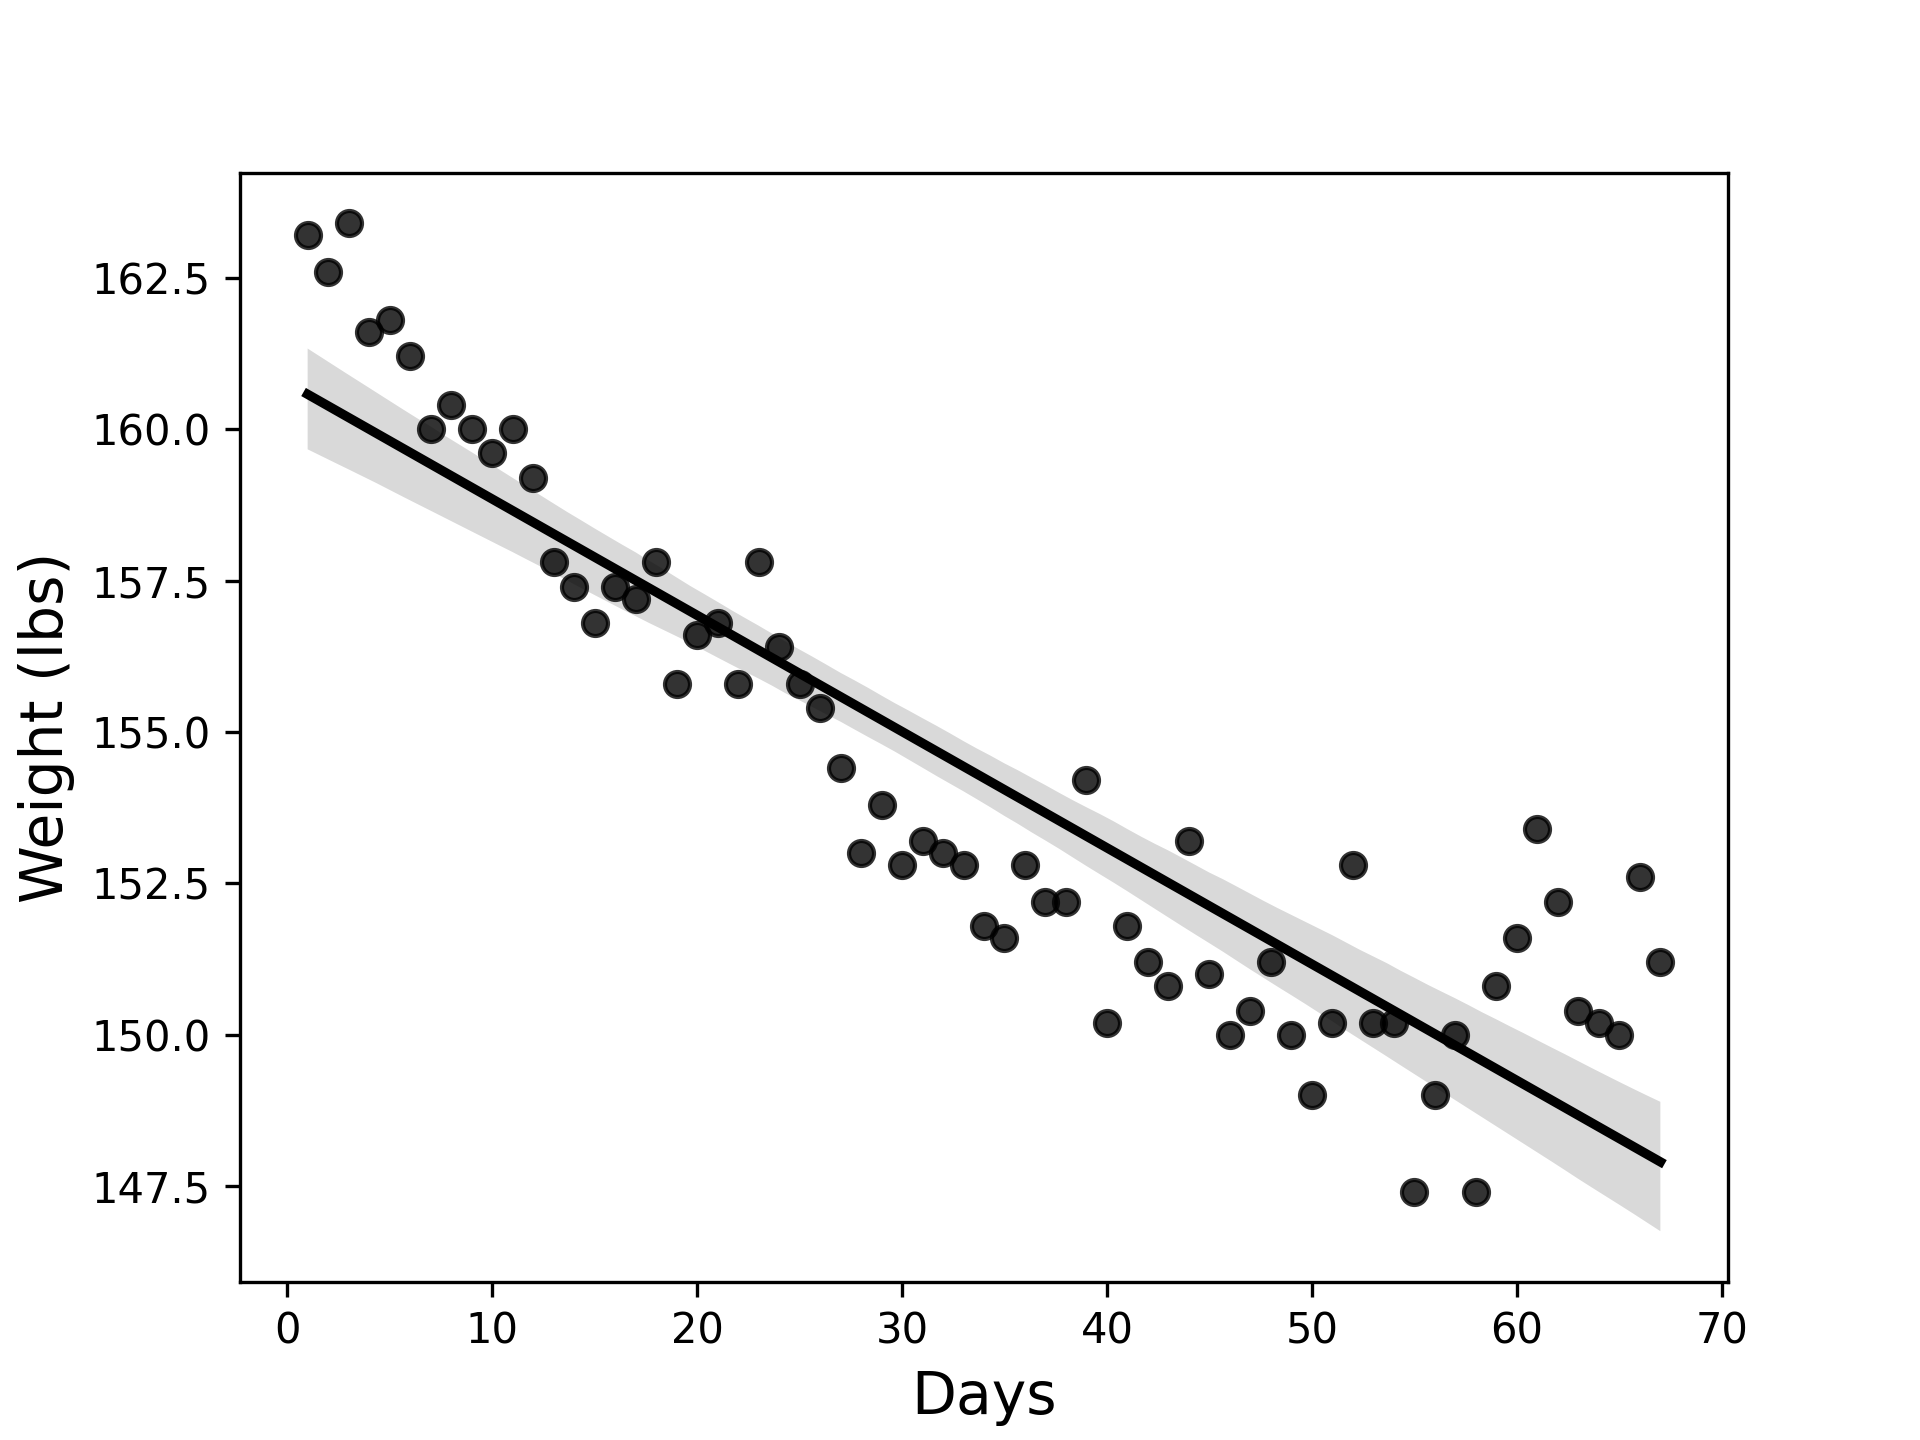
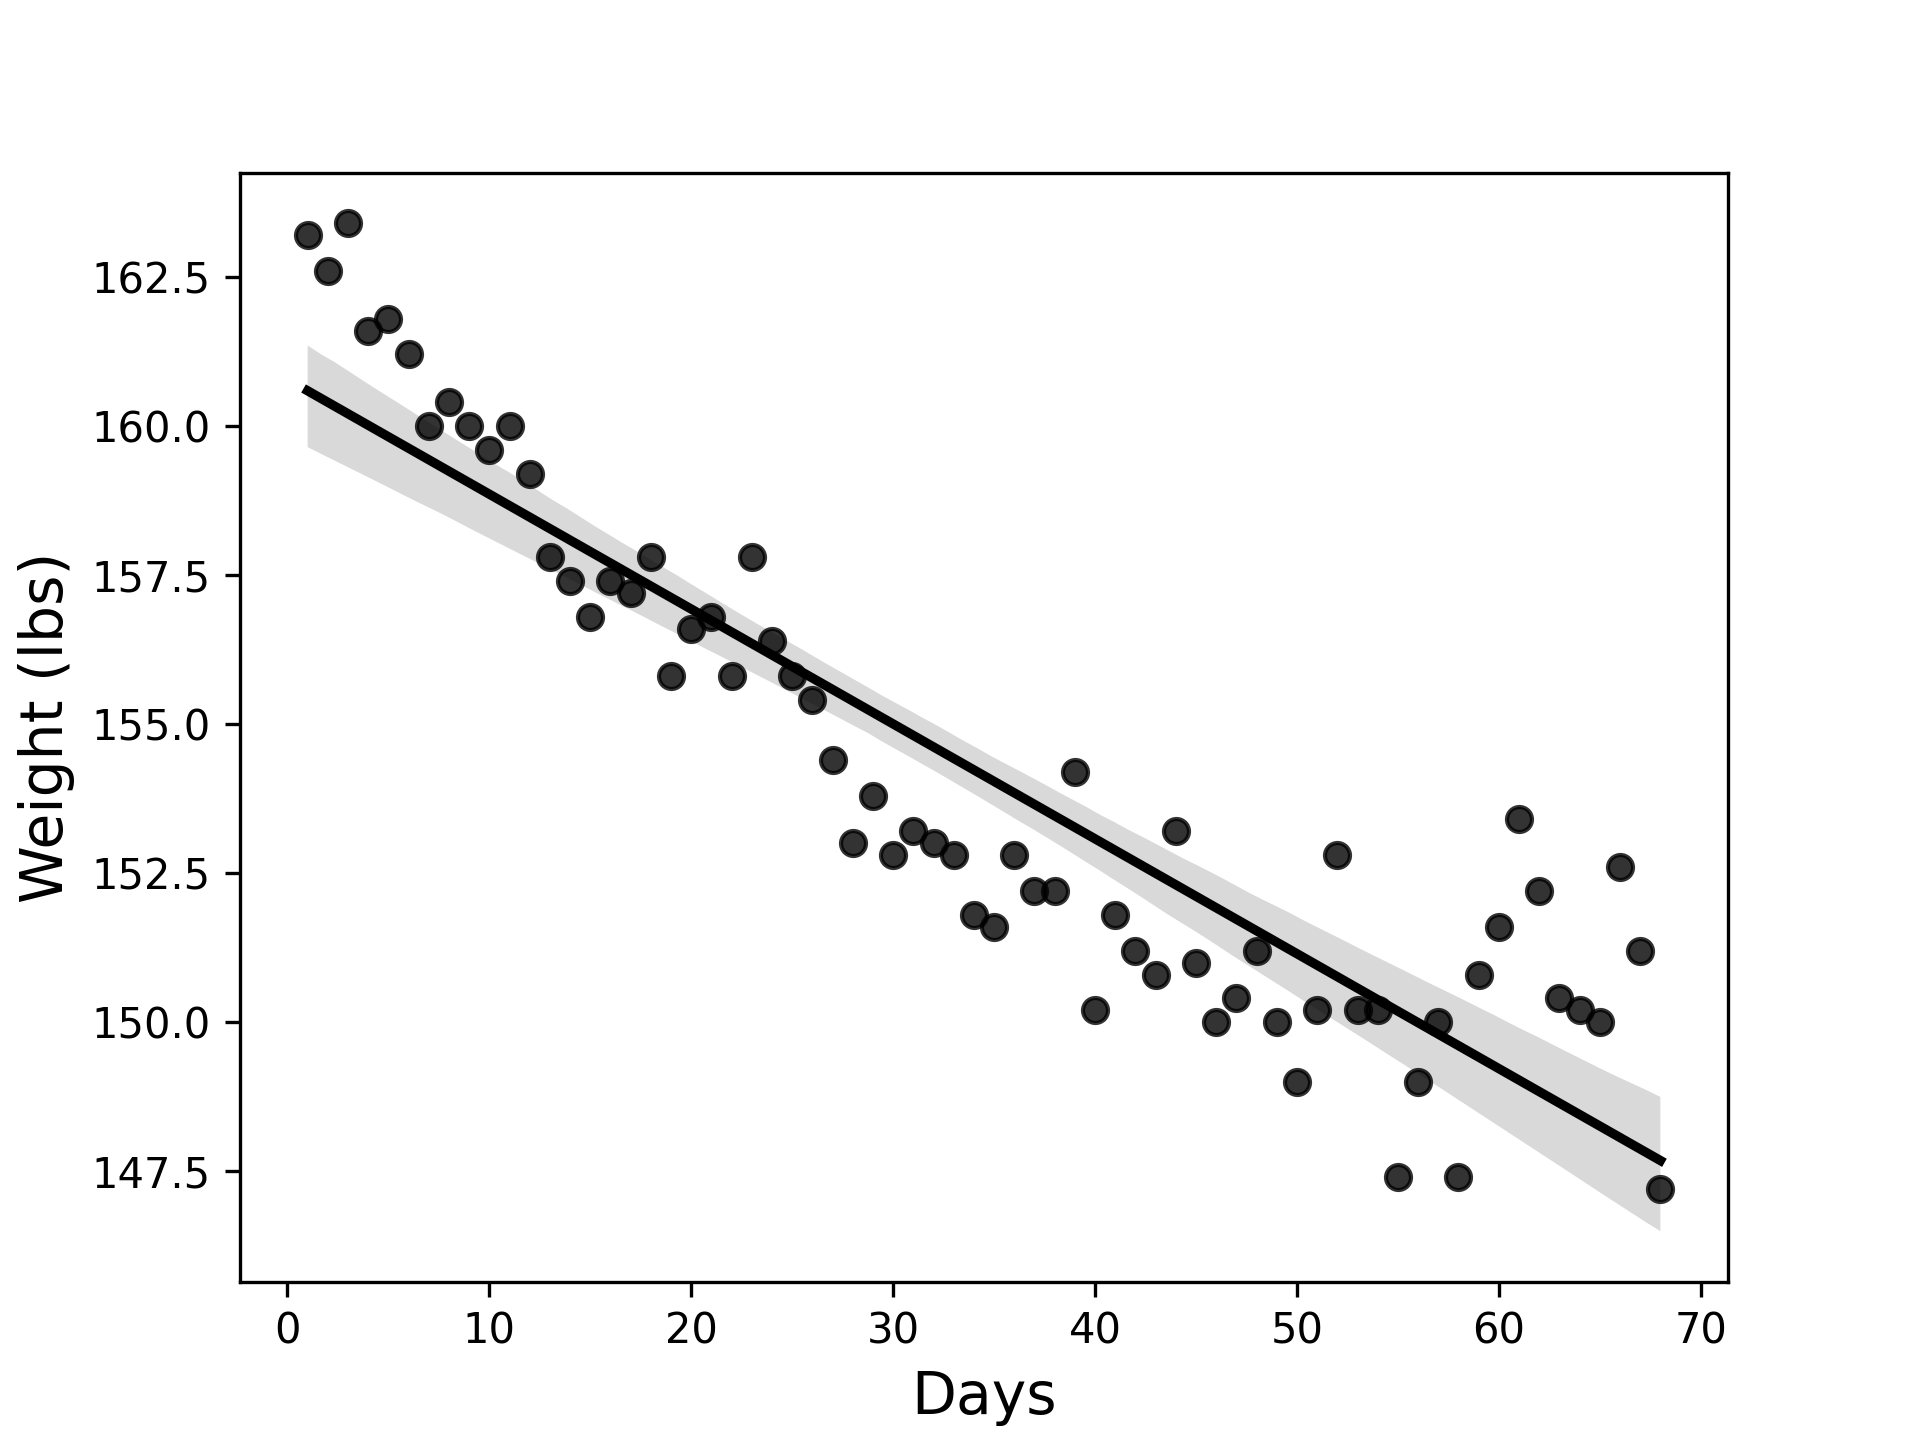
Updated weight.py and weight.png

diff --git a/Weight.py b/Weight.py
@@ -8,12 +8,12 @@ import seaborn as sns
 days_elapsed = np.array([1, 2, 3 ,4, 5, 6, 7, 8, 9, 10,11,12,13, 14,15,16,17,18,
                          19, 20,21,22,23,24,25,26,27,28,29,30,31,32,33,34,35,36,37,38,39,
                          40,41,42,43,44,45,46,47,48,49,50,51,52,53,54,55,56,57,58,59,60,61,62,
-                         63,64,65,66,67]).reshape(-1,1)
+                         63,64,65,66,67,68]).reshape(-1,1)
 weight = np.array([163.2, 162.6, 163.4, 161.6, 161.8, 161.2, 160.0, 160.4, 160.0, 159.6,160.0,159.2,157.8, 157.4,156.8,157.4,
                    157.2, 157.8,155.8, 156.6,156.8,155.8,157.8,156.4,155.8,155.4,154.4,153.0,153.8,152.8,153.2,
                    153.0,152.8,151.8,151.6,152.8,152.2,152.2,154.2,150.2, 151.8,151.2,150.8,153.2,
                    151.0,150.0,150.4,151.2,150.0,149.0,150.2,152.8,150.2,150.2,147.4,149.0,150.0,147.4,
-                   150.8,151.6,153.4,152.2,150.4,150.2,150.0,152.6,151.2])
+                   150.8,151.6,153.4,152.2,150.4,150.2,150.0,152.6,151.2,147.2])
 # Day 62 BP
 
 # Instantiates a LinearRegression model and fits it to the above arrays
